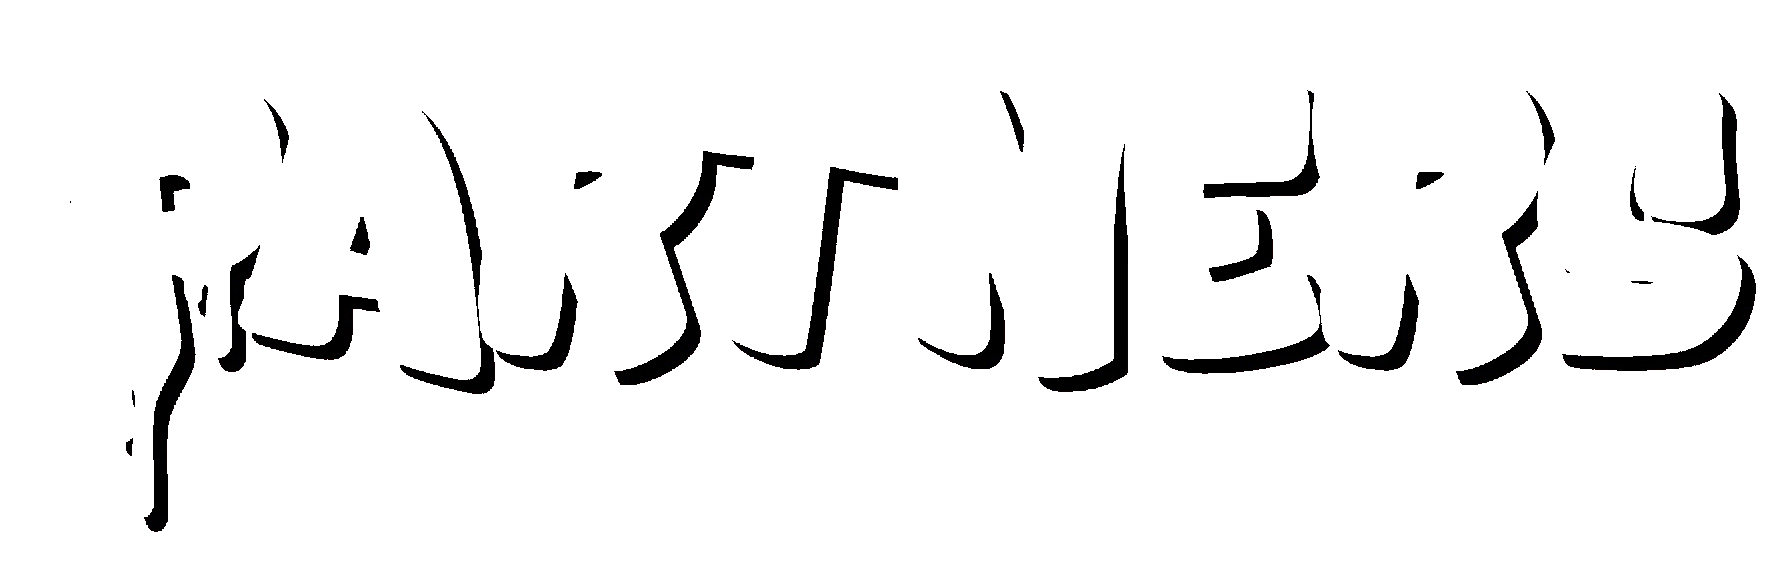
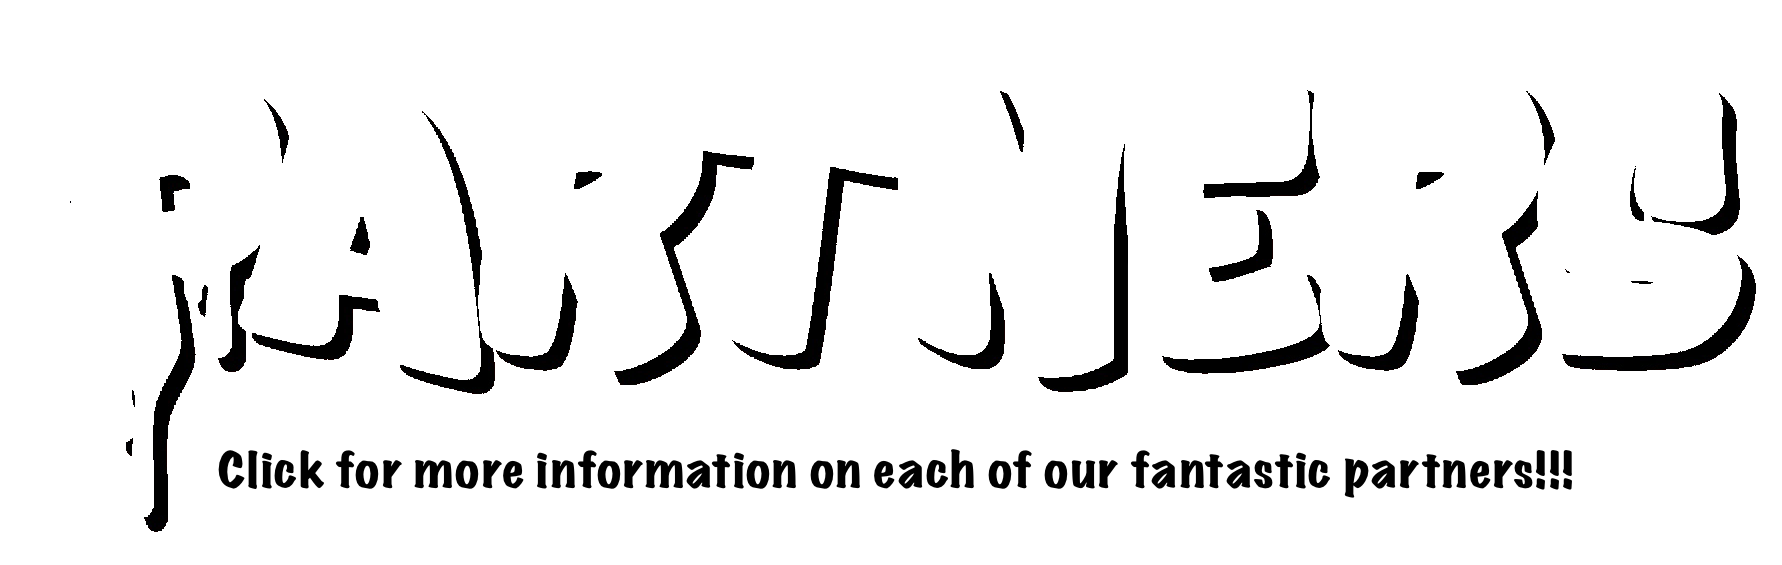
.

Changed region(s): [[0.1235, 0.7823, 0.8951, 0.8726]]

diff --git a/src/Pages/GrouchyTigers.jsx b/src/Pages/GrouchyTigers.jsx
@@ -35,7 +35,7 @@ const GrouchyTigers = () => {
         alt="gtos"
         style={{ marginTop: "0px"}}
       ></img>
-       <h3 style={{ marginTop: "0px", color: "white" }}>Buy Tigers On OpenSea</h3>
+       <h3 style={{ marginTop: "0px", color: "white" }}>Buy Tigers</h3>
     </a>
 
     <a href="https://opensea.io/collection/grouchy-cubs-social-club">
@@ -45,7 +45,7 @@ const GrouchyTigers = () => {
         alt="gtcubs"
         style={{ marginTop: "0px"}}
       ></img>
-       <h3 style={{ marginTop: "0px", color: "white" }}>Buy Cubs On OpenSea</h3>
+       <h3 style={{ marginTop: "0px", color: "white" }}>Buy Cubs</h3>
     </a>
    
     <a href="https://mint.grouchytigersocialclub.com">

diff --git a/src/Pages/Partners.jsx b/src/Pages/Partners.jsx
@@ -41,7 +41,6 @@ const Partners = () => {
           alt="partnerimg"
           ></img>
 
-      <h4 style={{fontSize: "1.2em", width: "75%", marginTop: "-30px"}}>Click for information on each of our fantastic partners!!</h4>
       <div className="partnerContainer">
         {partners.map((partner) => {
           return (

diff --git a/src/Pages/GrouchyTigers.css b/src/Pages/GrouchyTigers.css
@@ -42,7 +42,7 @@
     font-family: 'Fredoka One', cursive;
     font-size: 3em;
     text-align: center;
-    color: rgb(7, 56, 203);
+    color: antiquewhite;
 }
 
 .DiscordGT {

diff --git a/src/Pages/Partners.css b/src/Pages/Partners.css
@@ -56,6 +56,6 @@
 }
 
 .partnerimg {
-  width: 95%;
-  height: 95%;
+  width: 90%;
+  height: 90%;
 }
